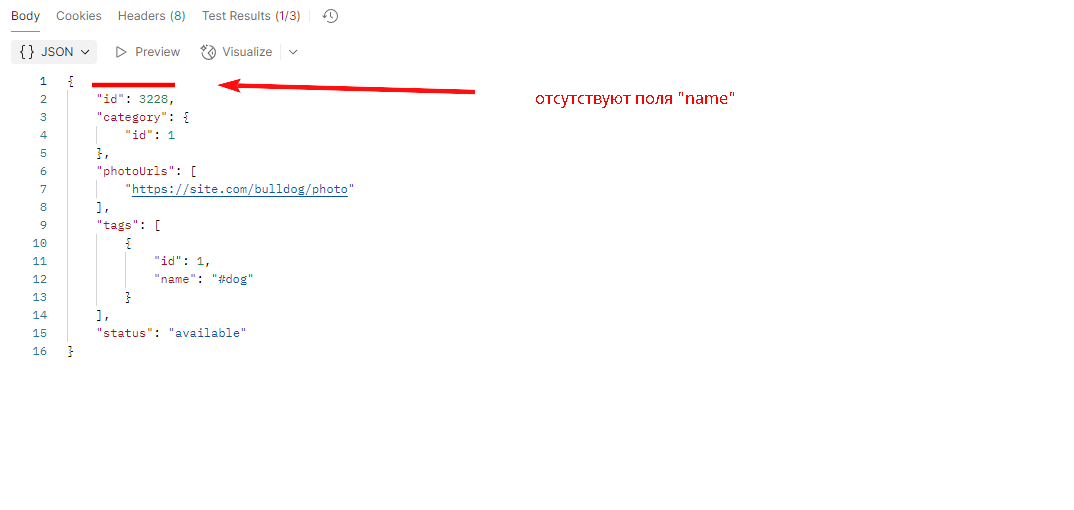
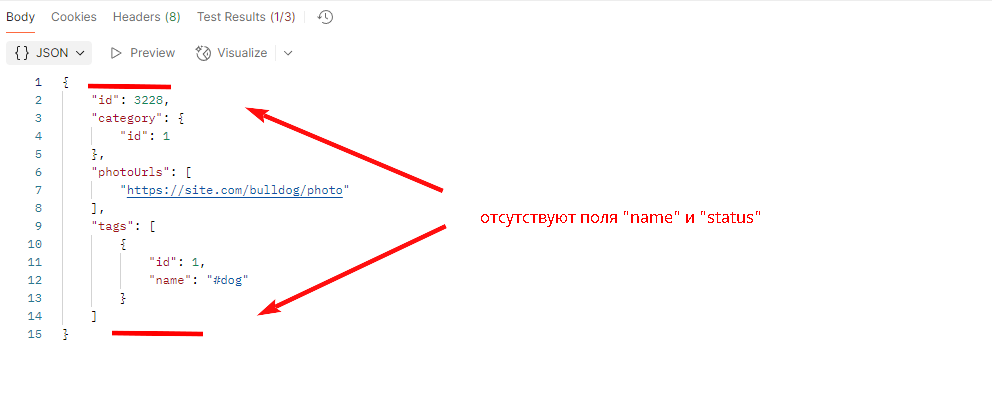
v1

diff --git a/bugs/br-api.md b/bugs/br-api.md
@@ -40,7 +40,7 @@
 
 ![Bug1-J](/bugs/2.2.png)
 
-## Приложение (спецификация Swagger):  
+## Спецификация (Swagger):  
 
 ![Bug1-R](/bugs/s2.1.png) 
 
@@ -50,3 +50,16 @@
 
 ---
 
+# BugReport 3: POST /pet — поле status принимает недопустимые значения
+
+## Оформленный багрепорт (Скриншот из Jira):  
+
+![Bug1-J](/bugs/3.png)
+
+## Спецификация (Swagger):  
+
+![Bug1-R](/bugs/s3.1.png) 
+
+## Приложение (реальный баг на сайте):  
+
+![Bug1-R](/bugs/s3.2.png) 
